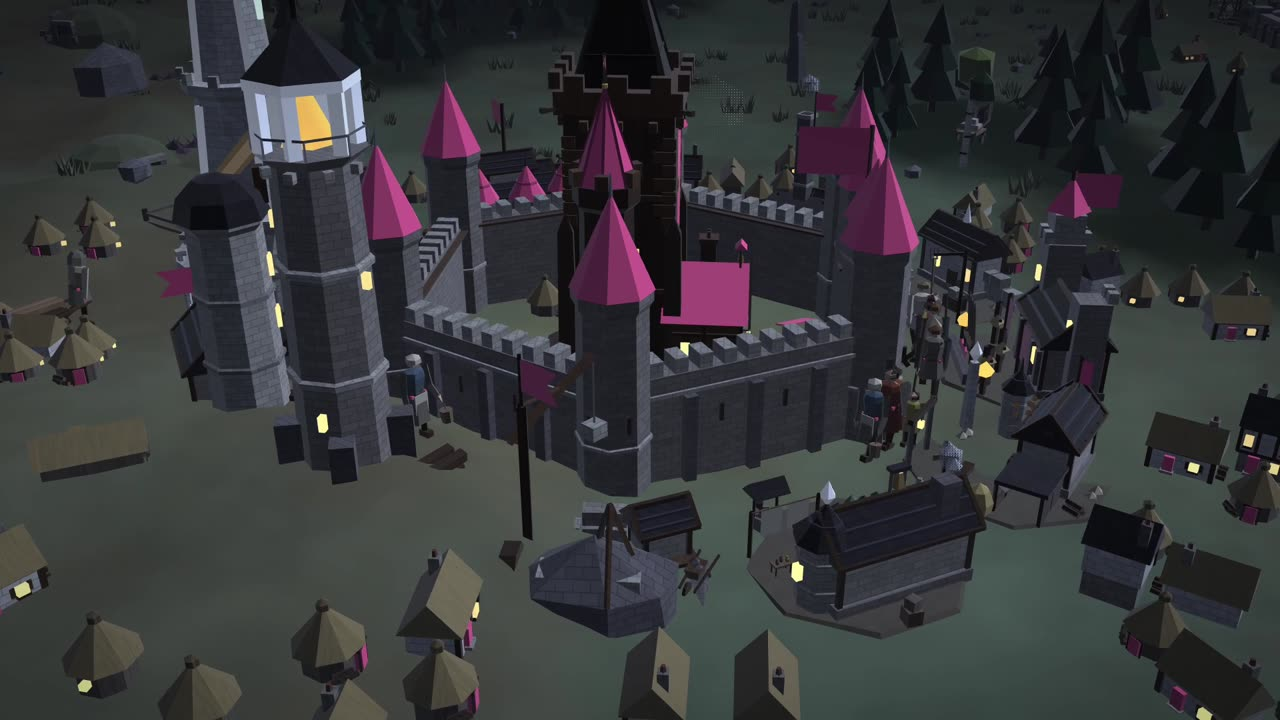
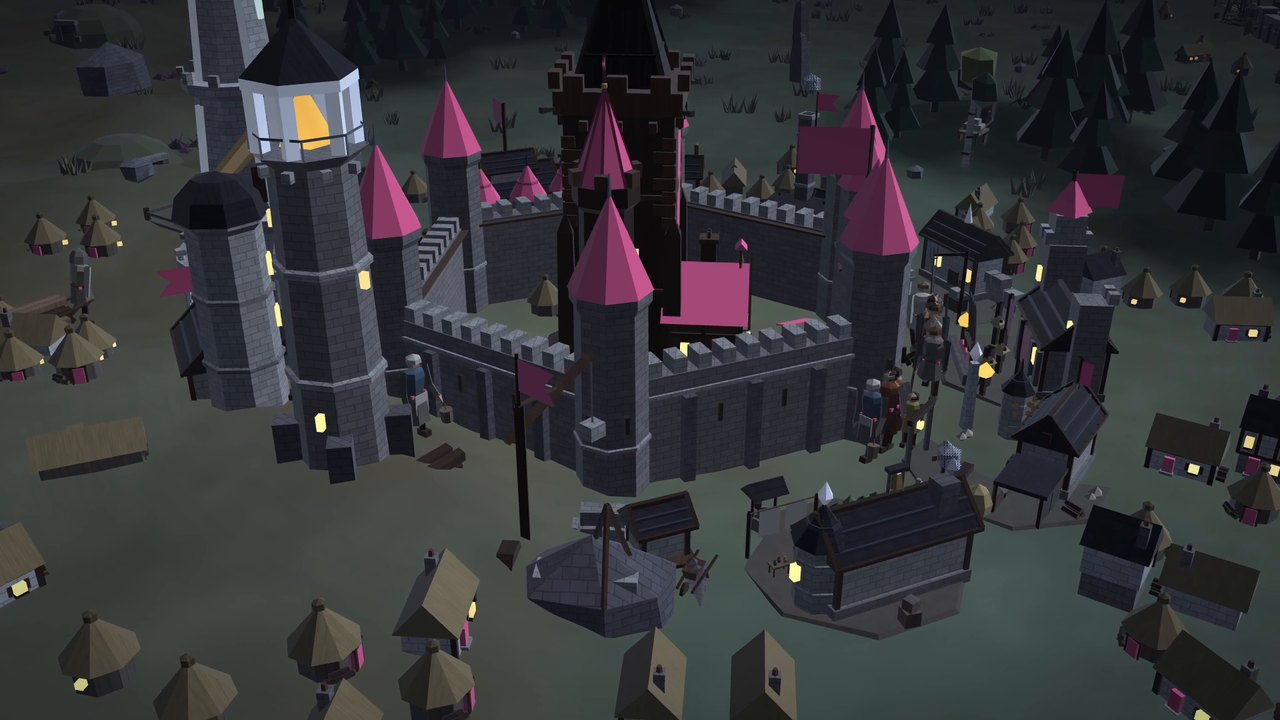
Tighten the Nullmere profile: verified links, archived work marked, clean still
- README: one intro line and one Nullmere paragraph instead of two
  overlapping ones; the earlier projects grouped with Warpkeep as Nullmere's
  halted predecessor and noted as archived, as GitHub shows them.
- nullmere.online left out of the README and PROJECTS until the domain
  serves a page; the repository and trailer links are verified.
- PROJECTS: the row naming a private repository removed; Allthing, Ashen
  Hallow and Degen Dogs Mission 3 marked archived.
- The citadel still is the same trailer shot two frames on, without the
  mist bank that showed there as a dotted patch.
- AGENTS.md: Warpkeep is halted and appears only as Nullmere's predecessor.

Claude-Session: https://claude.ai/code/session_01QPd9Y6FaTARPjD47R345tW

diff --git a/PROJECTS.md b/PROJECTS.md
@@ -13,7 +13,7 @@ Status notes reflect the material reviewed in November 2026.
 
 | Project | Purpose | Status |
 | --- | --- | --- |
-| [Nullmere](https://github.com/ael-dev3/Nullmere) | A native macOS persistent multiplayer 4X strategy MMO: Swift/Metal client, SpacetimeDB realm, on-device AI. [Site](https://nullmere.online) · [Trailer](https://github.com/ael-dev3/Nullmere/releases/tag/trailer) | In active development |
+| [Nullmere](https://github.com/ael-dev3/Nullmere) | A native macOS persistent multiplayer 4X strategy MMO: Swift/Metal client, SpacetimeDB realm, on-device AI. [Trailer](https://github.com/ael-dev3/Nullmere/releases/tag/trailer) | In active development |
 
 ## Warpkeep (halted)
 
@@ -29,7 +29,7 @@ Development has halted; Nullmere is the successor. Repositories are archived.
 
 | Project | Purpose | Status |
 | --- | --- | --- |
-| [Allthing](https://github.com/ael-dev3/Allthing) | A fast, independent Farcaster client on Snapchain and Hypersnap: read, cast, reply, schedule and attach media. Rust + Leptos on Cloudflare Workers. | Public client |
+| [Allthing](https://github.com/ael-dev3/Allthing) | A fast, independent Farcaster client on Snapchain and Hypersnap: read, cast, reply, schedule and attach media. Rust + Leptos on Cloudflare Workers. | Archived |
 | [Farcaster Context](https://github.com/ael-dev3/Clawberto-Farcaster-Context) | Searchable daily context from node data, with linked conversations and CSV/JSON exports. | Cached context site |
 | [Overlap](https://github.com/ael-dev3/Overlap) | People discovery through collaboration intent and explainable, deterministic matching. | Mini App prototype |
 | [Overlap DB](https://github.com/ael-dev3/Overlap-DB) | Reusable social snapshots and collection scripts, with recent context and recorded coverage limits. | Dataset and tooling |
@@ -42,7 +42,7 @@ Development has halted; Nullmere is the successor. Repositories are archived.
 
 | Project | Purpose | Status |
 | --- | --- | --- |
-| [Ashen Hallow](https://github.com/ael-dev3/Ashen-Hallow) | A fantasy autobattler with tactical deployment, deterministic combat and army progression across rounds. | Browser game |
+| [Ashen Hallow](https://github.com/ael-dev3/Ashen-Hallow) | A fantasy autobattler with tactical deployment, deterministic combat and army progression across rounds. | Browser game; archived |
 | [Mechabellum Prototype](https://github.com/ael-dev3/Mechabellum-prototype) | A positional autobattler experiment with upgrades, enemy deployments and simulation checks. | Earlier game prototype |
 | [DD.Game](https://github.com/ael-dev3/DD.Game) | An independent Degen Dogs underground-club concept; earlier contract experiments are preserved separately. | Static, non-interactive draft; paused |
 | [Clawgwarts](https://github.com/ael-dev3/Clawgwarts) | A Phaser academy world with agent simulations, interactive stations and a simulated action queue. | Interactive prototype |
@@ -60,7 +60,7 @@ Development has halted; Nullmere is the successor. Repositories are archived.
 
 | Project | Purpose | Status |
 | --- | --- | --- |
-| [Degen Dogs Mission 3](https://github.com/ael-dev3/Degen-Dogs-Mission-3) | Independent Base auction analytics, an inspectable archive and reproducible Python/SQLite exports. | Community dashboard and pipeline |
+| [Degen Dogs Mission 3](https://github.com/ael-dev3/Degen-Dogs-Mission-3) | Independent Base auction analytics, an inspectable archive and reproducible Python/SQLite exports. | Community dashboard and pipeline; archived |
 | [Silver Terminal](https://github.com/ael-dev3/Silver-terminal) | Hyperliquid SLV/USDC charts and downloadable candles, with a separate weekly historical reference. | Static chart site |
 | [Silver](https://github.com/ael-dev3/Silver) | Charting source and data pipelines behind the terminal and historical reference. | Source and data tooling |
 | [Ethereum Mainnet Tools](https://github.com/ael-dev3/Clawberto-eth-mainnet) | Ethereum inspection and transaction planning with deterministic JSON output. | Read/plan tools; no broadcasting |
@@ -85,7 +85,6 @@ Development has halted; Nullmere is the successor. Repositories are archived.
 
 | Project | Purpose | Status |
 | --- | --- | --- |
-| Lyrics / Tanisea (private) | Remotion lyric-film source, timing audits, rendering proofs and production masters. | Creative source and release archive |
 | [Neodym](https://github.com/ael-dev3/Neodym) | High-fantasy writing, Book One drafts, character studies and worldbuilding references. | Writing project |
 | [Portfolio](https://github.com/ael-dev3/Portfolio) | A planned Three.js portfolio with accessible interaction and project case studies. | Planning placeholder |
 | [FC_MA](https://github.com/ael-dev3/FC_MA) | Purpose and implementation are not yet documented. | Empty repository |

diff --git a/README.md b/README.md
@@ -1,30 +1,30 @@
 <h1 align="center">Hi, I'm Ael</h1>
 
-<p align="center">I'm building Nullmere, a persistent multiplayer strategy MMO for macOS.</p>
+<p align="center">I'm building Nullmere Online, a strategy MMO for macOS.</p>
 
 <p align="center">
   <img src="assets/nullmere/moonlit-lake.jpg" width="800" alt="Nullmere: a full moon and stars reflected in a still black lake.">
 </p>
 
-## Nullmere
+## Nullmere Online
 
-Nullmere Online is a native macOS 4X strategy MMO set in a persistent shared world.
-Swift and Metal client, SpacetimeDB realm, on-device AI, and original 3D models, music and sound.
+One persistent world around a still black lake, shared by every player: a native
+Swift and Metal client, a SpacetimeDB realm, on-device AI, and original 3D models,
+music and sound.
 
 <p align="center">
   <img src="assets/nullmere/citadel-night.jpg" width="800" alt="Nullmere: a walled citadel with lit windows and a surrounding village at night.">
 </p>
 
-[Repository](https://github.com/ael-dev3/Nullmere) · [Trailer](https://github.com/ael-dev3/Nullmere/releases/tag/trailer) · [nullmere.online](https://nullmere.online)
+[Repository](https://github.com/ael-dev3/Nullmere) · [Trailer](https://github.com/ael-dev3/Nullmere/releases/tag/trailer)
 
-## Other projects
+## Earlier work
 
-- **[Allthing](https://github.com/ael-dev3/Allthing)**: a fast, independent Farcaster client on Snapchain and Hypersnap, built with Rust and Leptos on Cloudflare Workers.
+- **[Warpkeep](https://github.com/ael-dev3/Warpkeep)**: Nullmere's predecessor, now halted.
 - **[Ashen Hallow](https://github.com/ael-dev3/Ashen-Hallow)**: a fantasy autobattler playable in the browser. [Play](https://ael-dev3.github.io/Ashen-Hallow/).
-- **[Degen Dogs](https://github.com/ael-dev3/Degen-Dogs-Mission-3)**: community auction analytics on Base with searchable history and downloadable data. [Dashboard](https://ael-dev3.github.io/Degen-Dogs-Mission-3/).
+- **[Allthing](https://github.com/ael-dev3/Allthing)**: an independent Farcaster client on Snapchain and Hypersnap, built with Rust and Leptos on Cloudflare Workers.
+- **[Degen Dogs](https://github.com/ael-dev3/Degen-Dogs-Mission-3)**: community auction analytics on Base, with searchable history and downloadable data. [Dashboard](https://ael-dev3.github.io/Degen-Dogs-Mission-3/).
 
-Earlier work: [Warpkeep](https://github.com/ael-dev3/Warpkeep), now halted. Nullmere is its successor.
+All four are archived. More in [Projects](PROJECTS.md).
 
-[More projects](PROJECTS.md)
-
-[nullmere.online](https://nullmere.online) · [Farcaster](https://farcaster.xyz/0xael.eth) · [X](https://x.com/0xAell)
+[Farcaster](https://farcaster.xyz/0xael.eth) · [X](https://x.com/0xAell)

diff --git a/AGENTS.md b/AGENTS.md
@@ -8,8 +8,8 @@ release ledger or a substitute for individual project documentation.
 - Lead with product purpose and concrete engineering work. Keep the voice direct,
   professional, and personal. Avoid vanity statistics, stale inventory counts,
   decorative badge walls, invented credentials, and unsupported success claims.
-- Distinguish live products from development targets. Warpkeep 0.4 remains in
-  development until its release evidence establishes otherwise.
+- Distinguish live products from development targets. Nullmere is in
+  development; Warpkeep has halted and appears only as Nullmere's predecessor.
 - Feature public projects only. Do not expose private repository names, local
   paths, credentials, or operational details in the public profile.
 - Preserve the owner's identity and links unless asked to change them. Verify
